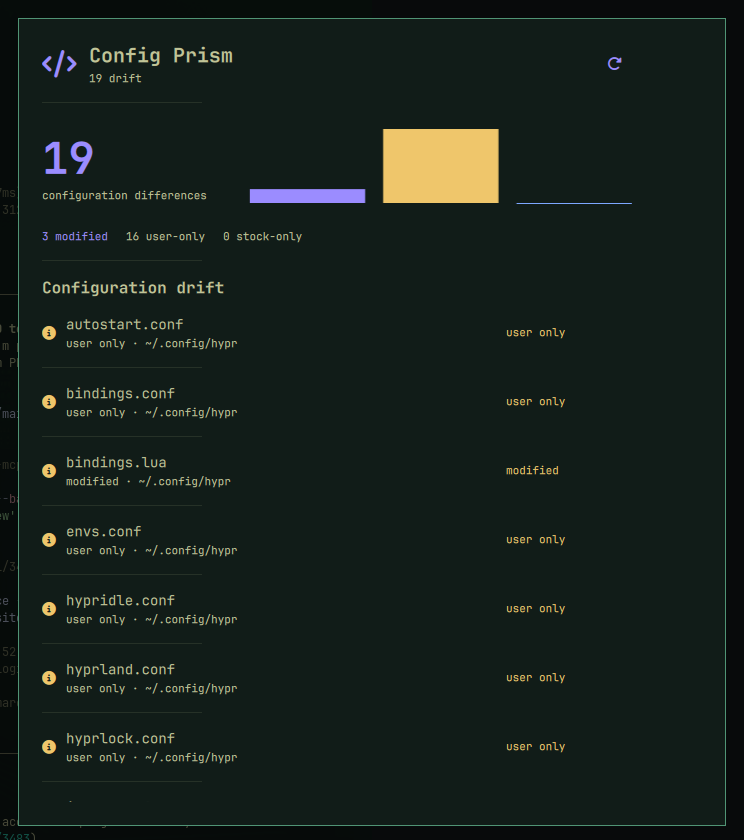
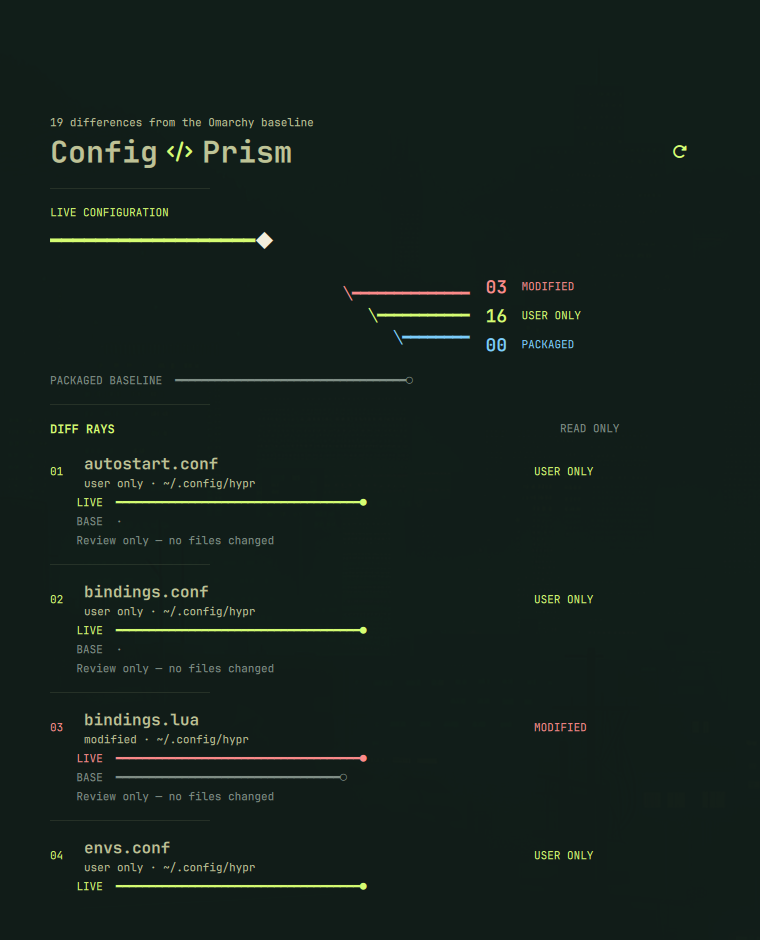
Redesign Config Prism around diff rays

diff --git a/main.rb b/main.rb
@@ -363,68 +363,109 @@ OmarchyUI.plugin do
   end
 
   bar_widget do
-    row spacing: 7 do
-      icon :code, color: "#9b8cff"
-      text { state.snapshot.fetch("summary") }
+    row spacing: 6 do
+      icon :code, size: 14, color: "#8bd5ca"
+      text "PRISM", style: :caption, color: "#8bd5ca"
+      text(style: :caption) { state.snapshot.fetch("summary") }
     end
     on_click { open_panel :config_prism }
   end
 
   panel :config_prism do
-    scroll width: 660, height: 760 do
+    scroll width: 660, height: 780 do
       dynamic id: :scene, spacing: 16 do
         entries = state.snapshot.fetch("items")
-        history = state.snapshot.fetch("history")
+        modified = entries.count { |entry| entry.fetch("status", "") == "modified" }
+        user_only = entries.count { |entry| entry.fetch("status", "") == "user only" }
+        stock_only = entries.count { |entry| entry.fetch("status", "") == "stock only" }
 
-        row spacing: 12 do
-          icon :code, size: 30, color: "#9b8cff"
-          column spacing: 2 do
-            text "Config Prism", style: :heading, width: 500
-            text state.snapshot.fetch("summary"), style: :caption, width: 500
-          end
-          action_button :refresh, tooltip: "Refresh", foreground: "#9b8cff" do
-            async(&refresh)
+        column spacing: 2 do
+          text "#{state.snapshot.fetch("score")} differences from the Omarchy baseline",
+               style: :caption, width: 610
+          row spacing: 9 do
+            text "Config", size: 30, bold: true
+            icon :code, size: 22, color: "#d8ff73"
+            text "Prism", size: 30, bold: true, width: 455
+            action_button :refresh, tooltip: "Rescan configuration", foreground: "#d8ff73" do
+              async(&refresh)
+            end
           end
         end
 
         separator
-        modified = entries.count { |entry| entry.fetch("status", "") == "modified" }
-            user_only = entries.count { |entry| entry.fetch("status", "") == "user only" }
-            stock_only = entries.count { |entry| entry.fetch("status", "") == "stock only" }
-            row spacing: 24 do
-              column spacing: 0 do
-                text state.snapshot.fetch("score").to_s.rjust(2, "0"), size: 44, bold: true, color: "#9b8cff"
-                text "configuration differences", style: :caption
-              end
-              bar_chart [modified, user_only, stock_only], labels: ["modified", "user", "stock"], width: 420, height: 94,
-                colors: ["#9b8cff", "#efc66b", "#7da7ff"], show_grid: false, bar_spacing: 18
+        column spacing: 2 do
+          text "LIVE CONFIGURATION", style: :caption, color: "#d8ff73"
+          row spacing: 0 do
+            text "━━━━━━━━━━━━━━━━━━", size: 19, color: "#d8ff73"
+            text "◆", size: 28, bold: true, color: "#f5f0de"
+          end
+        end
+
+        row spacing: 15 do
+          column spacing: 3 do
+            text "                                   ╲━━━━━━━━━━━━━━", size: 14, color: "#ff8b8b"
+            text "                                      ╲━━━━━━━━━━━", size: 14, color: "#d8ff73"
+            text "                                         ╲━━━━━━━━", size: 14, color: "#7dcfff"
+          end
+          column spacing: 5 do
+            row spacing: 8 do
+              text modified.to_s.rjust(2, "0"), size: 18, bold: true, color: "#ff8b8b", width: 28
+              text "MODIFIED", style: :caption, color: "#ff8b8b"
             end
-            row spacing: 18 do
-              text "#{modified} modified", style: :caption, color: "#9b8cff"
-              text "#{user_only} user-only", style: :caption
-              text "#{stock_only} stock-only", style: :caption
+            row spacing: 8 do
+              text user_only.to_s.rjust(2, "0"), size: 18, bold: true, color: "#d8ff73", width: 28
+              text "USER ONLY", style: :caption, color: "#d8ff73"
             end
-            separator
-            section_header "Configuration drift"
-            if entries.empty?
-              column spacing: 8 do
-                        icon :code, size: 34, color: "#9b8cff"
-                        text "Nothing to show yet", style: :heading
-                        text "Your live configuration currently matches the packaged baseline.", style: :caption, wrap: true, width: 560
-                      end
-            else
-              entries.first(16).each_with_index do |entry, index|
-                row spacing: 10 do
-                  icon status_icon.call(entry.fetch("status", "")), size: 15, color: status_color.call(entry.fetch("status", ""))
-                  column spacing: 2 do
-                    text entry.fetch("title"), width: 430, wrap: true
-                    text entry.fetch("detail", ""), style: :caption, width: 430
-                  end
-                  text entry.fetch("status", ""), style: :caption, color: status_color.call(entry.fetch("status", ""))
+            row spacing: 8 do
+              text stock_only.to_s.rjust(2, "0"), size: 18, bold: true, color: "#7dcfff", width: 28
+              text "PACKAGED", style: :caption, color: "#7dcfff"
+            end
+          end
+        end
+        text "PACKAGED BASELINE  ━━━━━━━━━━━━━━━━━━━━━━━━━━━━━━━━━━━○",
+             style: :caption, color: "#829088"
+        separator
+
+        row spacing: 10 do
+          text "DIFF RAYS", size: 12, bold: true, color: "#d8ff73", width: 500
+          text "READ ONLY", style: :caption, color: "#829088"
+        end
+
+        if entries.empty?
+          column spacing: 7 do
+            icon :circle_check, size: 30, color: "#d8ff73"
+            text "Live configuration is aligned", size: 22, bold: true
+            text "Your user-owned files currently match the packaged baseline.",
+                 style: :caption, wrap: true, width: 560
+          end
+        else
+          entries.first(12).each_with_index do |entry, index|
+            status = entry.fetch("status", "")
+            ray_color = status == "modified" ? "#ff8b8b" : (status == "stock only" ? "#7dcfff" : "#d8ff73")
+            column spacing: 4 do
+              row spacing: 10 do
+                text (index + 1).to_s.rjust(2, "0"), style: :caption, color: ray_color, width: 24
+                column spacing: 1 do
+                  text entry.fetch("title"), width: 440, size: 16, bold: true, wrap: true
+                  text entry.fetch("detail", ""), style: :caption, width: 440, wrap: true
                 end
-                separator unless index == [entries.length, 16].min - 1
+                text status.upcase, style: :caption, color: ray_color, width: 105
               end
+              if status == "modified"
+                text "    LIVE  ━━━━━━━━━━━━━━━━━━━━━━━━━━━━━━━━━━━━━●", style: :caption, color: "#ff8b8b"
+                text "    BASE  ━━━━━━━━━━━━━━━━━━━━━━━━━━━━━━━━━━○", style: :caption, color: "#829088"
+              elsif status == "stock only"
+                text "    LIVE  ·", style: :caption, color: "#829088"
+                text "    BASE  ━━━━━━━━━━━━━━━━━━━━━━━━━━━━━━━━━━━━━●", style: :caption, color: "#7dcfff"
+              else
+                text "    LIVE  ━━━━━━━━━━━━━━━━━━━━━━━━━━━━━━━━━━━━━●", style: :caption, color: "#d8ff73"
+                text "    BASE  ·", style: :caption, color: "#829088"
+              end
+              text "    #{entry.fetch("meta", "")}", style: :caption, width: 560, color: "#829088", wrap: true
             end
+            separator unless index == [entries.length, 12].min - 1
+          end
+        end
       end
     end
   end
